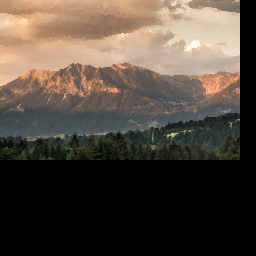
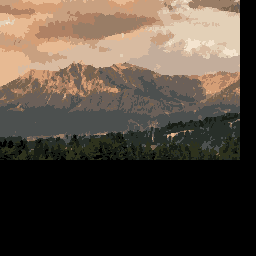
fix image using dithering

diff --git a/src/dusk/src/sprites.c b/src/dusk/src/sprites.c
@@ -229,7 +229,7 @@ void dusk_background_upload_raw(GritImage* img) {
     // 2. upload the atlas tiles to bg tile memory (CBB)
     memcpy(&tile_mem[0][0], img->tiles, img->tile_sz);
     // 3. upload the map (SBB)
-    memcpy(&se_mem[0][0], img->map, img->map_sz);
+    memcpy(&se_mem[30][0], img->map, img->map_sz);
 }
 
 void dusk_background_make(u8 bg_id, Background bg) {
@@ -237,5 +237,5 @@ void dusk_background_make(u8 bg_id, Background bg) {
     enable_bg(bg_id);
     // set control flags
     vu16* bg_reg = dusk_get_background_register(bg_id);
-    *bg_reg |= BG_CBB(0) | BG_SBB(0) | BG_8BPP | BG_REG_32x32;
+    *bg_reg |= BG_CBB(0) | BG_SBB(30) | BG_4BPP | BG_REG_32x32;
 }

diff --git a/doc/tips.md b/doc/tips.md
@@ -1,0 +1,4 @@
+
+# gfx tips
+
+in GIMP, set color mode to Indexed, and select 16 or 256 depending on your bpp
